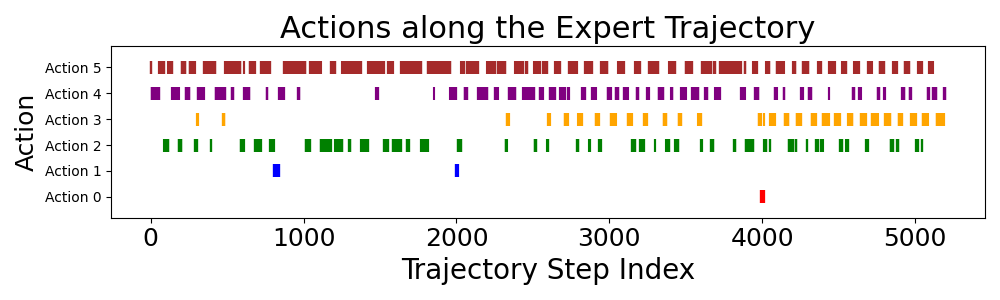
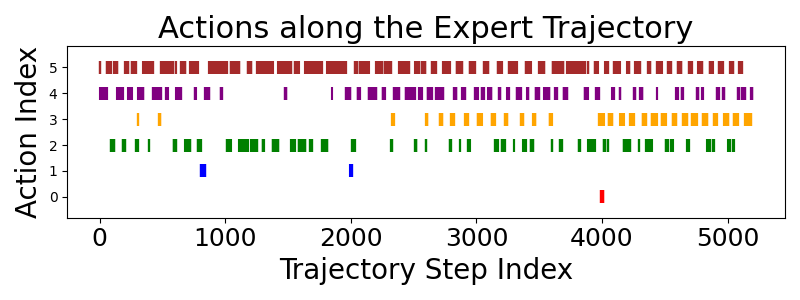
commit

diff --git a/plot_test.py b/plot_test.py
@@ -24,17 +24,19 @@ def plot_replicated_action_prob(q_values, state_indices, test_folder, label):
     plt.savefig(test_folder+'actions_probability_trajectory.png')
 
 def plot_expert_action_traj(actions, n_actions, test_folder):
-    plt.figure(figsize=(10, 3))
+    plt.figure(figsize=(8, 3))
     if n_actions == 6:
         plt.eventplot([np.where(actions == i)[0] for i in range(6)], lineoffsets=1, linelengths=0.5, colors=['red', 'blue', 'green', 'orange', 'purple', 'brown'])
-        plt.yticks(range(6), labels=["Action 0", "Action 1", "Action 2", "Action 3", "Action 4", "Action 5"])
+        # plt.yticks(range(6), labels=["Action 0", "Action 1", "Action 2", "Action 3", "Action 4", "Action 5"])
+        plt.yticks(range(6))
     elif n_actions == 5:
         plt.eventplot([np.where(actions == i)[0] for i in range(5)], lineoffsets=1, linelengths=0.5, colors=['red', 'blue', 'green', 'orange', 'purple'])
-        plt.yticks(range(5), labels=["Action 0", "Action 1", "Action 2", "Action 3", "Action 4"])
+        # plt.yticks(range(5), labels=["Action 0", "Action 1", "Action 2", "Action 3", "Action 4"])
+        plt.yticks(range(5))
     plt.tick_params(axis='x', which='major', labelsize=18)
     plt.tick_params(axis='y', which='minor', labelsize=18)
     plt.xlabel("Trajectory Step Index", fontsize=20)
-    plt.ylabel("Action", fontsize=18)
+    plt.ylabel("Action Index", fontsize=20)
     plt.title("Actions along the Expert Trajectory", fontsize=22)
     plt.tight_layout()
     plt.savefig(test_folder+'actions_along_trajectories.png')
